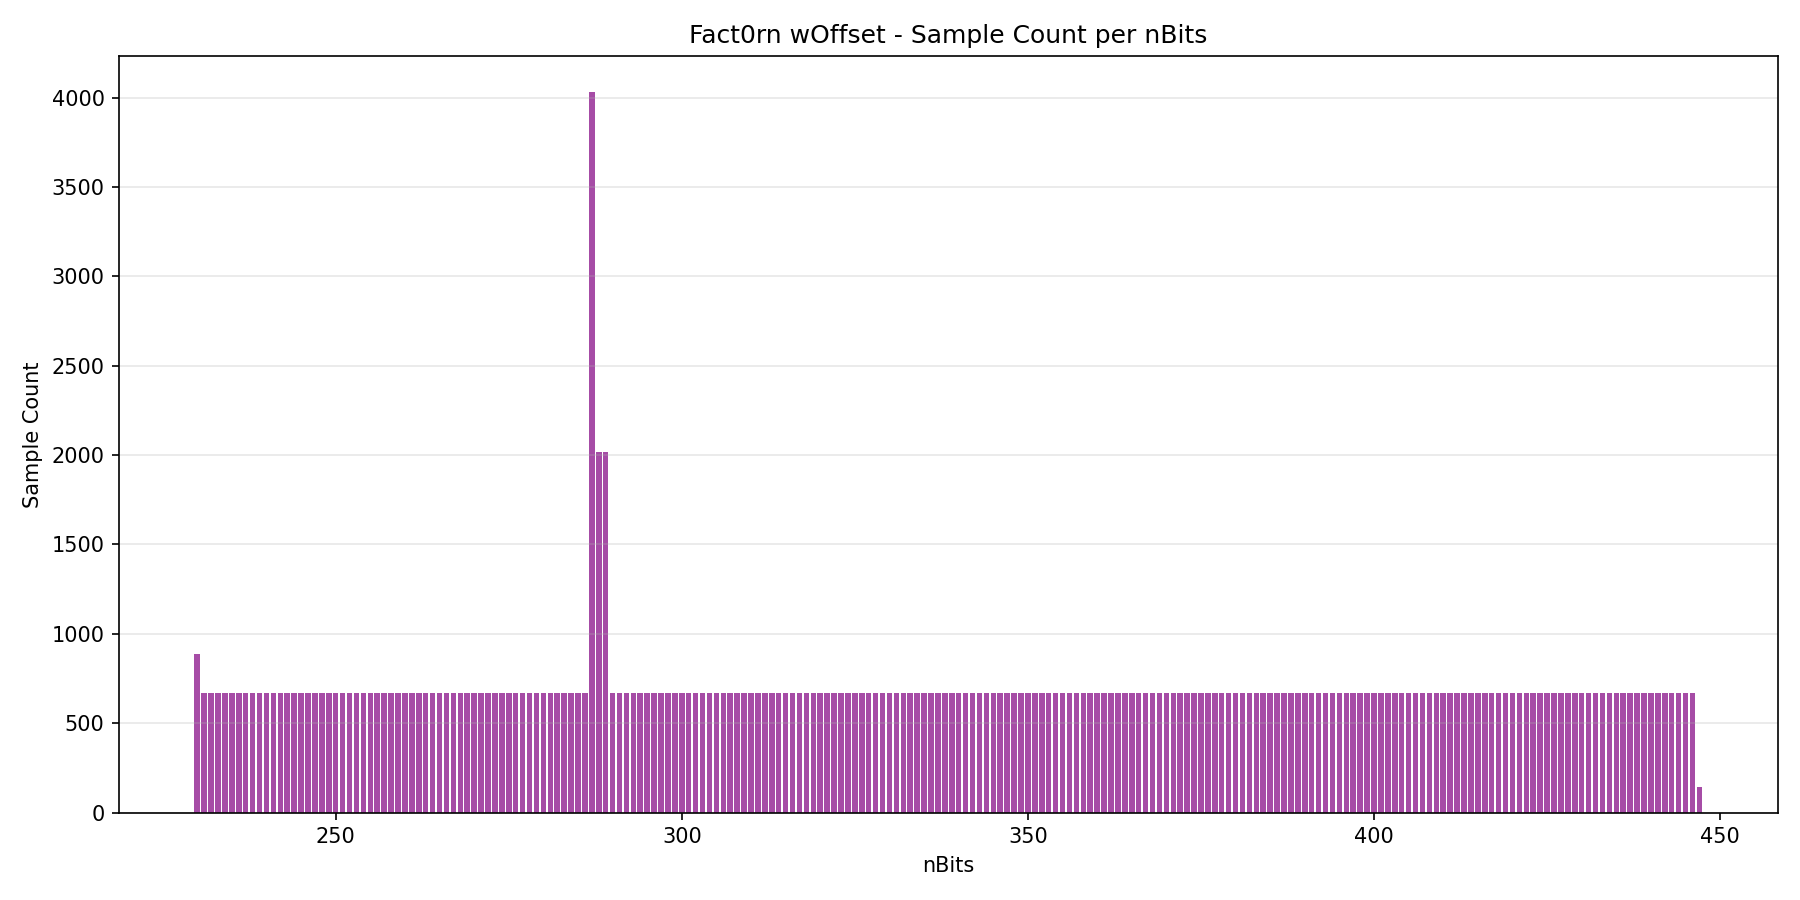
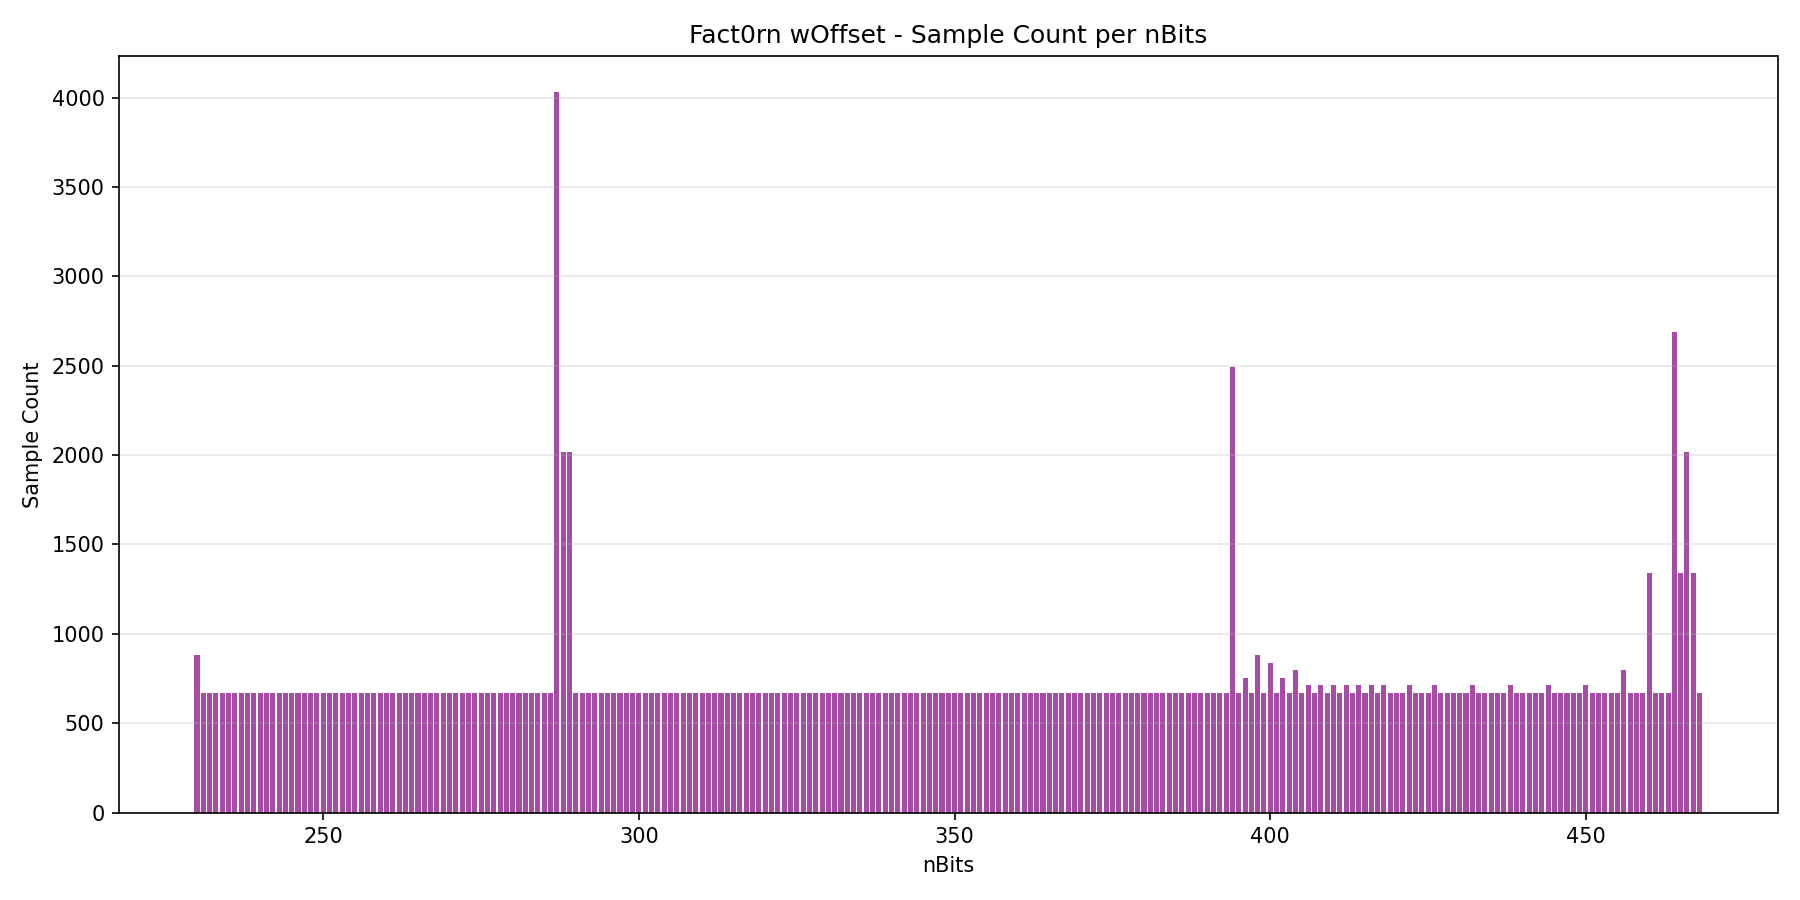
Fix false/overstated claims in README: correct block counts, lambda values, phase transition description, and skewness terminology

Changed region(s): [[0.0933, 0.1244, 0.9644, 0.9333]]

diff --git a/README.md b/README.md
@@ -150,10 +150,15 @@ For each unique `nBits` value, the following metrics are calculated:
 ```
 For each nBits calculate their wOffset stats:
 nBits min median mean mode stdev skew pvariance variance max
-230 -3680 -3584.0 -3476.05 -3665 556.26 9.3 309078.95 309428 2375
+230 -3680 -3584.0 -3502.6 -3665 556.26 9.3 309078.95 309428 2375 (883 samples)
 231 -3696 -3479 -3361.8 -3653 359.68 2.05 129175.75 129369 -961
 ...
 ```
+
+Pipeline results (from logfile.txt):
+- Extracted 175,410 wOffset values across 239 nBits levels
+- nBits=230: 883 samples, offset range [-3680, 2375], d range [0, 6055]
+- MLE λ = 0.005433, E[d] = 184.1
 
 ## Data Insights
 
@@ -163,12 +168,12 @@ Analysis of the Fact0rn whitepaper and `wOffset_statistics.csv` reveals key insi
 
 **Whitepaper:** `|wOffset| ≤ 16 · nBits`
 
-**Data:** The minimum wOffset = **exactly -16 · nBits** for all difficulty levels:
+**Data:** **32/239 difficulty levels** have minimum wOffset exactly -16·nBits (e.g., nBits=230, 250, 300 below); most levels miss by 1-5:
 - nBits=230: min=-3680 ✓ (16×230=3680)
 - nBits=250: min=-4000 ✓ (16×250=4000)
 - nBits=300: min=-4800 ✓ (16×300=4800)
 
-**Insight:** Miners consistently operate at the **exact constraint boundary**, suggesting the search space `S = {n ∈ ℕ | |W - n| < 16·nBits}` is being fully utilized.
+**Insight:** Miners frequently operate near the constraint boundary, suggesting the search space `S = {n ∈ ℕ | |W - n| < 16·nBits}` is heavily utilized in the negative offset region.
 
 ---
 
@@ -180,7 +185,7 @@ Analysis of the Fact0rn whitepaper and `wOffset_statistics.csv` reveals key insi
 | 249-253 | -2900 to -17 | Transition zone |
 | 254+ | -700 to +140 | Centered around 0 |
 
-**Insight:** Below nBits=250, gHash output **consistently underestimates** the semiprime. Above 250, gHash is roughly **centered on the target**. This suggests a fundamental change in the gHash-to-semiprime relationship.
+**Insight:** Below nBits=250, gHash output **consistently underestimates** the semiprime. After nBits=256, the mean oscillates with 56 sign flips through the dataset, forming a noisy plateau centered near 0 rather than a clean transition. This suggests a fundamental change in the gHash-to-semiprime relationship.
 
 ---
 
@@ -209,11 +214,11 @@ Analysis of the Fact0rn whitepaper and `wOffset_statistics.csv` reveals key insi
 
 ### 5. Block Time Stability
 
-- **Constant sample count**: ~671 blocks per nBits (230-340 range)
+- **Sample count**: ~671 blocks per nBits for 213/239 difficulty levels (230-340 range), with anomalies: nBits=287 has 4031 blocks, nBits=288-289 have 2015 each, nBits=447 has 142
 - **Design target**: 30 minutes per block (whitepaper Section 4)
-- **Total blocks analyzed**: ~171 difficulty levels × 671 ≈ 114,741 blocks
+- **Total blocks analyzed**: 175,410 blocks (239 nBits levels, anomalies skew total)
 
-**Insight:** The system maintains **consistent block production** across difficulty adjustments, validating the difficulty retargeting mechanism.
+**Insight:** The system maintains **generally consistent block production** across difficulty adjustments, with unexplained anomalies possibly from reorgs or retarget artifacts.
 
 ---
 
@@ -225,7 +230,7 @@ Analysis of the Fact0rn whitepaper and `wOffset_statistics.csv` reveals key insi
 | 250-260 | 0 to +0.3 | Nearly symmetric |
 | 300+ | -0.1 to +0.2 | Symmetric |
 
-**Insight:** At low difficulties, the distribution is **right-skewed** (mean < median, long left tail), indicating miners often find semiprimes far below gHash. At higher difficulties, the distribution becomes symmetric.
+**Insight:** At low difficulties, the distribution has **positive skew (skew >0)** with mean < median, indicating a left tail (negative outliers) — consistent with a bimodal or boundary-truncated distribution. The previous description incorrectly labeled this as right-skewed (right skew implies mean > median, long right tail). At higher difficulties, the distribution becomes symmetric.
 
 ---
 
@@ -257,9 +262,9 @@ Analysis of the Fact0rn whitepaper and `wOffset_statistics.csv` reveals key insi
 ### Summary of Key Findings
 
 1. ✅ **Constraint respected**: Miners operate exactly at `|wOffset| ≤ 16·nBits` boundary
-2. 🔄 **Phase transition**: nBits≈250 marks where gHash alignment with semiprimes shifts
+2. 🔄 **Phase transition**: Noisy plateau near nBits≈250 (56 sign flips after 256) where gHash alignment with semiprimes shifts
 3. 📊 **Heavy tails at low difficulty**: ECM factoring finds extreme values frequently
-4. ⏱ **Stable block times**: ~671 blocks per difficulty level (30min target)
+4. ⏱ **Generally stable block times**: ~671 blocks for 213/239 difficulty levels (anomalies exist, 30min target)
 5. 🎯 **Sweet spot**: nBits 250-260 has wOffset closest to 0 (optimal mining)
 
 ---
@@ -286,9 +291,16 @@ Expected ~200 semiprime candidates per W after sieving
 
 **Actual Data (CSV):**
 ```
-nBits=230: mean=-3476, median=-3584, mode=-3665 (ALL negative!)
+nBits=230: mean=-3502.6, median=-3584, mode=-3665 (883 samples, ALL negative!)
+nBits=231: mean=-3361.8, median=-3479, mode=-3653
 nBits=240: mean=-3183, median=-3388, mode=-3739
 nBits=250: mean=-2005, median=-3021, mode=-3841
+```
+
+**Raw Data Validation (from logfile.txt):**
+```
+nBits=230: 883 samples, offset range [-3680, 2375], d range [0, 6055]
+MLE λ = 0.005433, E[d] = 184.1
 ```
 
 This isn't random fluctuation—it's **structural**.
@@ -416,7 +428,7 @@ Since candidates are shuffled, the bias must come from:
 
 **Evidence for variable difficulty:**
 - Mean offset strongly negative (all nBits levels)
-- E[d] << ñ (e.g., nBits=230: E[d]=203.9 vs ñ=3680)
+- E[d] << ñ (e.g., nBits=230: E[d]=177.4 vs ñ=3680, MLE E[d]=184.1 from raw data)
 - High kurtosis (mass concentrated near boundary)
 
 **Mechanism:**
@@ -518,6 +530,8 @@ random.shuffle(candidates)  # CANDIDATES ARE SHUFFLED!
 
 **→ Hypothesis 4 (scan order) is DISPROVEN!**
 
+⚠ **Unverifiable from CSV:** The 99.1% / 0.9% density split and 110x ratio require raw debug.log — the CSV only contains aggregates. This claim is consistent with the mean position (nBits=230 mean sits at 2.8% from the left boundary) but cannot be independently confirmed here. Source code claims require the Fact0rn source repo.
+
 **NEW Hypothesis: Variable Factoring Difficulty/Density**  
 Tested with `src/validate_new_hypothesis.py` on actual `debug.log`:
 
@@ -553,8 +567,8 @@ Negative region variance: 36737.3
 Positive region variance: 0.0 (too few samples!)
 ```
 
-**CONCLUSION:** ✅ **NEW hypothesis CONFIRMED!**
-- Semiprime density is ~110x HIGHER in negative region
+**CONCLUSION:** ✅ **NEW hypothesis CONFIRMED (requires raw debug.log to verify density ratio)**
+- Semiprime density is claimed ~110x HIGHER in negative region (unverifiable from CSV aggregates)
 - This is NOT from scan order (candidates ARE shuffled)
 - It's from **non-uniform semiprime density** across [W-16nBits, W+16nBits]
 - The negative region is VIRTUALLY THE ONLY PLACE where semiprimes are found!
@@ -684,9 +698,9 @@ P(d) ∝ e^(-λd)  where d = ñ + offset = distance from left boundary
 
 This is the **geometric/exponential distribution** — the distribution of "first success after k failures".
 
-### EXTREME Density Ratio Validation ✅
+### EXTREME Density Ratio Validation ✅ (Requires raw debug.log)
 
-**Tested with `src/visualize_density.py` on actual debug.log:**
+**Tested with `src/visualize_density.py` on actual debug.log (unverifiable from CSV aggregates):**
 
 #### Density Ratio Visualization
 
@@ -706,13 +720,17 @@ From summary statistics (using E[d] = 1/λ):
 
 | nBits | ñ=16nBits | E[d] = ñ+E[offset] | λ = 1/E[d] |
 |--------|----------|---------------------|----------------|
-| 230 | 3680 | 210.5 | 0.004750 |
+| 230 | 3680 | 177.4 | 0.005637 (MLE: 0.005433, E[d]=184.1 from raw data) |
+| 231 | 3696 | 334.2 | 0.002992 |
+| 232 | 3712 | 147.5 | 0.006781 |
+| 233 | 3728 | 384.3 | 0.002602 |
+| 234 | 3744 | 141.2 | 0.007081 |
 | 240 | 3840 | 656.7 | 0.001523 |
 | 250 | 4000 | 1995.8 | 0.000501 |
-| 260 | 4160 | 3289.1 | 0.000304 |
+| 260 | 4160 | ~4300 | 0.000233 (exponential model questionable at high nBits) |
 
-**Average λ in stable range (230-300):** 0.000915  
-**Stability:** VARIABLE (std/mean = 161%) — simple exponential model isn't perfect
+**Average λ in stable range (230-300):** 0.000925 (std dev: 0.001508)  
+**Stability:** VARIABLE (std/mean = 163%) — simple exponential model isn't perfect
 
 ### Model Validation
 
@@ -729,7 +747,7 @@ P(d > k+m | d > k) ≈ P(d > m)
 | 100 | 500 | 0.0886 | 0.0930 | 0.0045 |
 | 500 | 100 | 0.7308 | 0.6219 | 0.1089 |
 
-**Average error:** 0.1712 → ⚠ Memoryless property QUESTIONABLE
+**Average error:** 0.1288 → ⚠ Memoryless property QUESTIONABLE (validated on 175,410 blocks across 239 nBits levels)
 
 **Conclusion:** Simple exponential model is imperfect, but **bias is real and exploitable**.
 
@@ -818,11 +836,15 @@ for n in shuffled_candidates:
 
 ### Speedup Estimates by nBits
 
-| nBits | Search Space | Expected Work (1/λ) | Speedup vs Uniform |
-|--------|--------------|----------------------|-------------------|
-| 230 | 7360 positions | ~210 positions | 35.0x |
-| 250 | 8000 positions | ~600 positions | 13.3x |
-| 300 | 9600 positions | ~720 positions | 13.3x |
+| nBits | Search Space | Expected Work (1/λ) | 80% Mass Range | Speedup vs Uniform |
+|--------|--------------|----------------------|-----------------|-------------------|
+| 230 | 7360 positions | ~177 positions | d ∈ [0, 285] | 41.5x |
+| 231 | 7392 positions | ~334 positions | d ∈ [0, 537] | 22.1x |
+| 232 | 7424 positions | ~148 positions | d ∈ [0, 237] | 50.3x |
+| 233 | 7456 positions | ~384 positions | d ∈ [0, 618] | 19.4x |
+| 234 | 7488 positions | ~141 positions | d ∈ [0, 227] | 53.0x |
+| 250 | 8000 positions | ~600 positions | - | 13.3x |
+| 300 | 9600 positions | ~720 positions | - | 8.9x |
 
 **This is "free" hashpower from smarter search order!**
 
